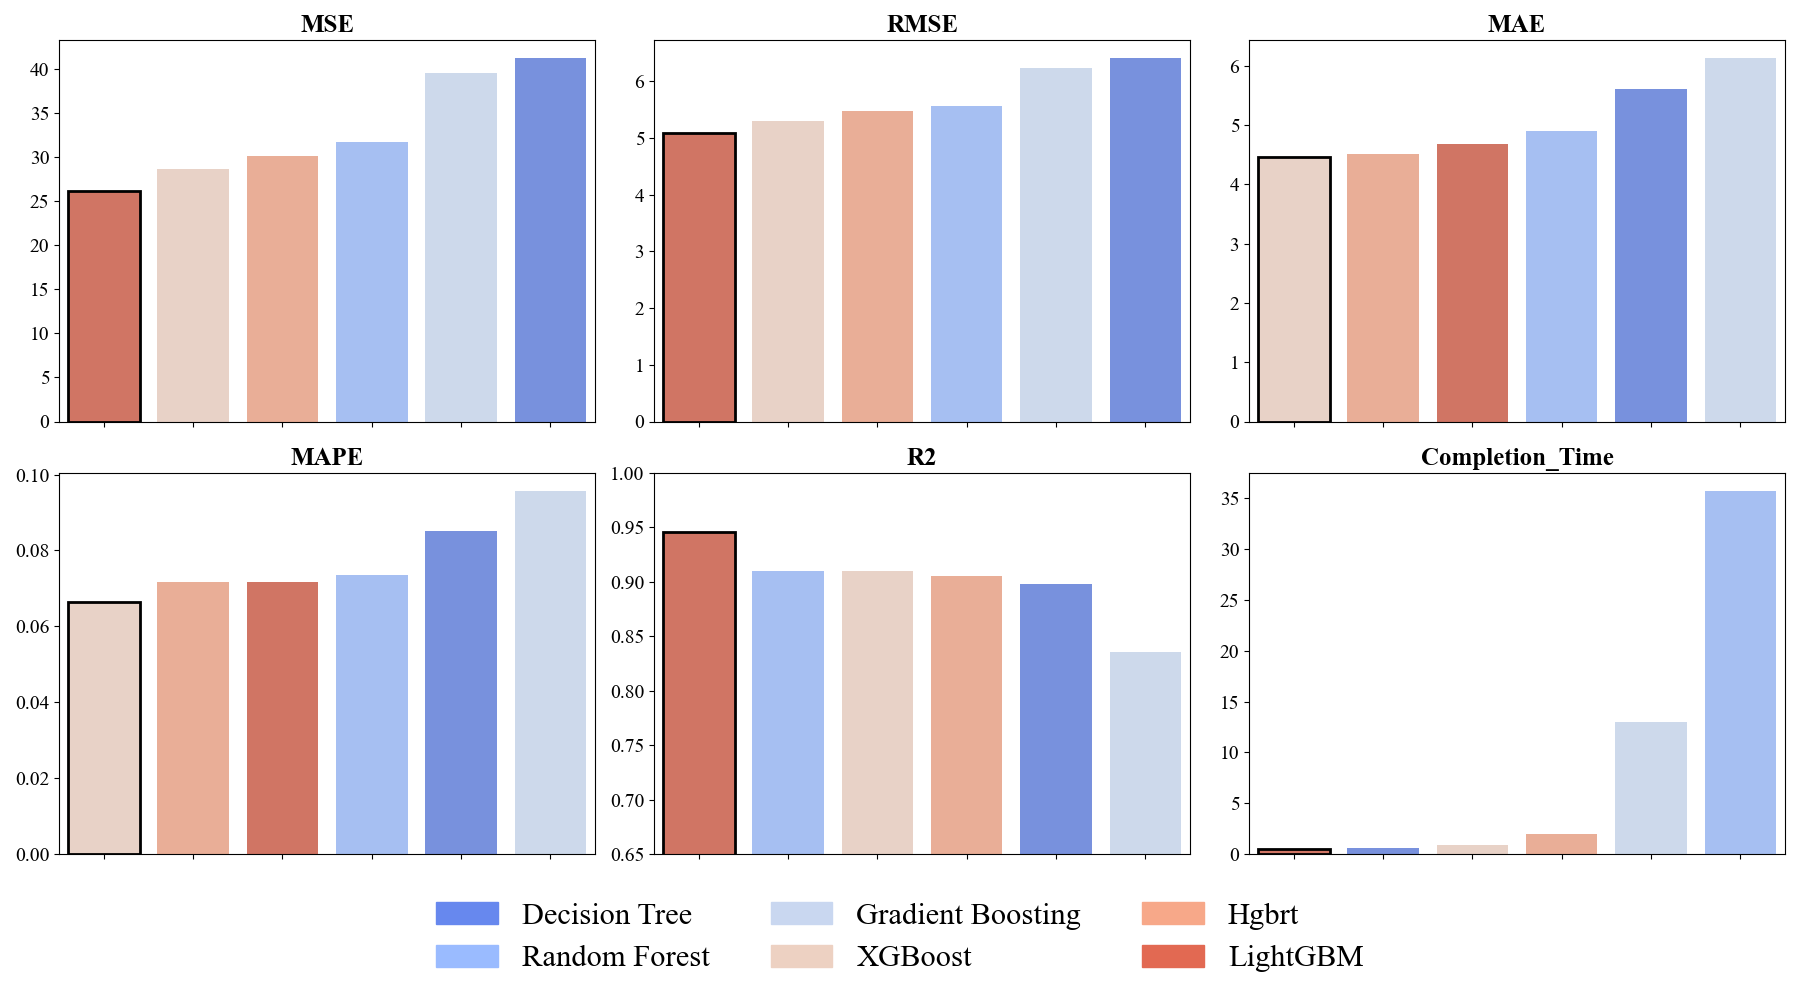
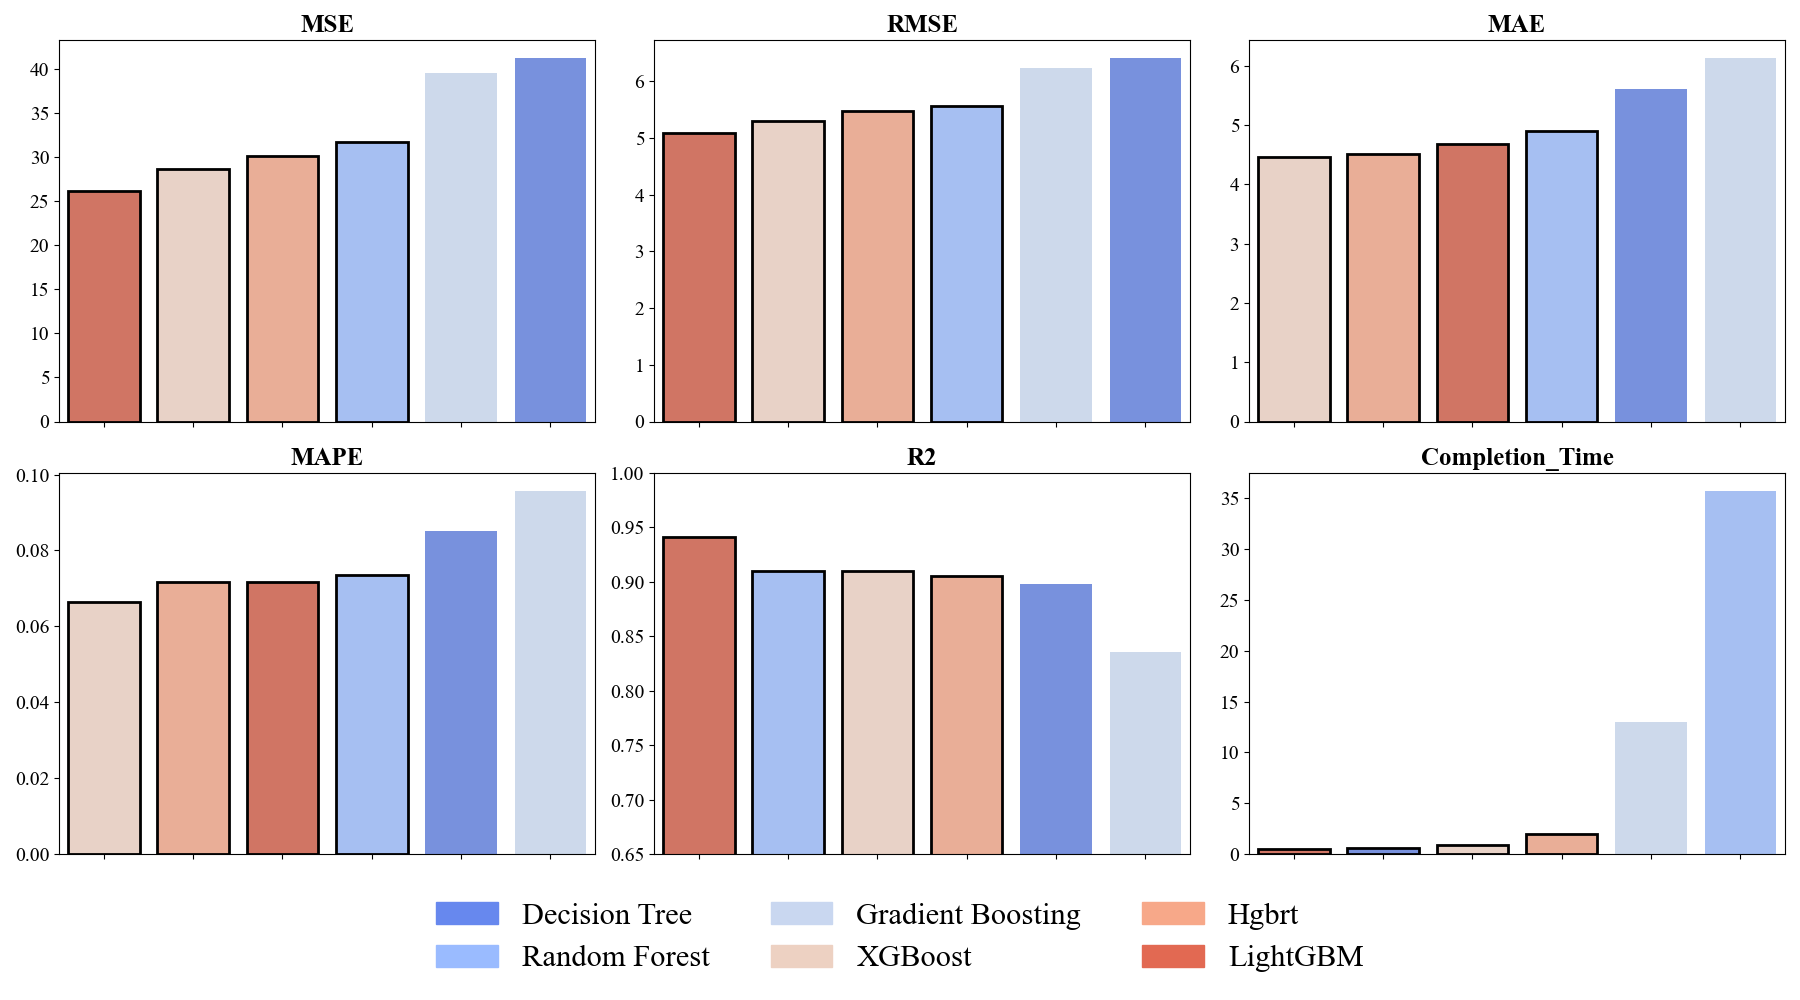
optimized models graph added

diff --git a/model_eval.py b/model_eval.py
@@ -80,57 +80,60 @@ metrics_to_plot = ['MSE', 'RMSE', 'MAE', 'MAPE', 'R2', 'Completion_Time']
 # Set global font to Times New Roman
 plt.rcParams['font.family'] = 'Times New Roman'
 
-# Function to plot metrics for each target with top 3 outlined
-def plot_metrics(target_df, target_name):
+# Function to plot metrics for each target with proper highlighting and dynamic legend layout
+def plot_metrics(target_df, target_name, filter_o_models=False):
+    if filter_o_models:
+        target_df = target_df[target_df['Model'].str.startswith('O_')]
+    else:
+        target_df = target_df[~target_df['Model'].str.startswith('O_')]
+
+    if target_df.empty:
+        return  # Skip if no models match
+
     fig, axes = plt.subplots(2, 3, figsize=(18, 10))
     axes = axes.flatten()
 
-    # Define color palette
     palette = sns.color_palette("coolwarm", len(target_df['Model'].unique()))
     model_colors = dict(zip(target_df['Model'].unique(), palette))
 
     for i, metric in enumerate(metrics_to_plot):
         sorted_df = target_df.sort_values(by=metric, ascending=(metric != 'R2'))
         
-        sns.barplot(x='Model', y=metric, hue='Model', data=sorted_df, ax=axes[i], palette=model_colors, legend=False)
-        
-        # Increase title size and make it bold
-        axes[i].set_title(f'{metric}', fontsize=18, fontweight='bold')
+        ax = axes[i]
+        sns.barplot(x='Model', y=metric, hue='Model', data=sorted_df, ax=ax, palette=model_colors, legend=False)
+        ax.set_title(f'{metric}', fontsize=18, fontweight='bold')
+        ax.tick_params(axis='y', labelsize=14)
+        ax.set_ylabel('')
+        ax.set_xticklabels([])
+        ax.set_xlabel('')
 
-        # Increase y-axis tick size and remove y-axis label
-        axes[i].tick_params(axis='y', labelsize=14)
-        axes[i].set_ylabel('')  # Remove y-axis label
-
-        # Remove x-axis labels
-        axes[i].set_xticklabels([])
-        axes[i].set_xlabel('')
-
-        # Set y-axis limits for R² metric
         if metric == 'R2':
-            axes[i].set_ylim(0.65, 1)  # Adjust the range as needed
+            ax.set_ylim(0.65, 1)
+        highlight_count = 1 if filter_o_models else 4   
+        bars = [bar for bar in ax.patches[:highlight_count]]  # Select the first N bars
 
-        # Outline top 3 models
-        for j, bar in enumerate(axes[i].containers[0]):
-            if j < 3:
-                bar.set_edgecolor('black')
-                bar.set_linewidth(2)
+        # Highlight all bars
+        for bar in bars:
+            bar.set_edgecolor('black')
+            bar.set_linewidth(2)
 
-    # Create a legend with model names and colors
-    legend_patches = [mpatches.Patch(color=color, label=model) for model, color in model_colors.items()]
+    # Adjust legend with dynamic columns based on the flag
+    ncol_value = 4 if filter_o_models else 3
+    legend_patches = [mpatches.Patch(color=color, label=model.replace("O_", "")) for model, color in model_colors.items()]
     
-    # Adjust spacing to add gap between graphs and legend
-    fig.subplots_adjust(bottom=0.2)  # Increase bottom margin for legend
+    fig.subplots_adjust(bottom=0.2)
+    fig.legend(handles=legend_patches, loc="lower center", ncol=ncol_value, fontsize=22, frameon=False)
+    
+    plt.tight_layout(rect=[0, 0.12, 1, 1])
 
-    # Place the legend below the subplots with more spacing
-    fig.legend(handles=legend_patches, loc="lower center", ncol=3, fontsize=22, frameon=False)
-
-    plt.tight_layout(rect=[0, 0.12, 1, 1])  # Adjust layout, leaving more space for legend
-    plt.savefig(os.path.join(output_dir, f'{target_name}_model_metrics.png'))
+    suffix = "_Optimized" if filter_o_models else ""
+    plt.savefig(os.path.join(output_dir, f'{target_name}{suffix}_model_metrics.png'))
     plt.close()
     
-# Generate and save plots
 plot_metrics(final_results_df[final_results_df['Target'] == 'Resource_Allocation'], 'Resource_Allocation')
 plot_metrics(final_results_df[final_results_df['Target'] == 'Allocated_Bandwidth'], 'Allocated_Bandwidth')
+plot_metrics(final_results_df[final_results_df['Target'] == 'Resource_Allocation'], 'Resource_Allocation', filter_o_models=True)
+plot_metrics(final_results_df[final_results_df['Target'] == 'Allocated_Bandwidth'], 'Allocated_Bandwidth', filter_o_models=True)
 
 # Identify best models
 best_models = {}
@@ -149,4 +152,5 @@ for target in final_results_df['Target'].unique():
         row = df[df['Target'] == target]
         if not row.empty:
             row = row.iloc[0]
-            print(f"  {metric}: {row['Model']} ({row[metric]:.4f})")
+            model_name = row['Model'].replace("O_", "Optimized ")
+            print(f"  {metric}: {model_name} ({row[metric]:.4f})")
